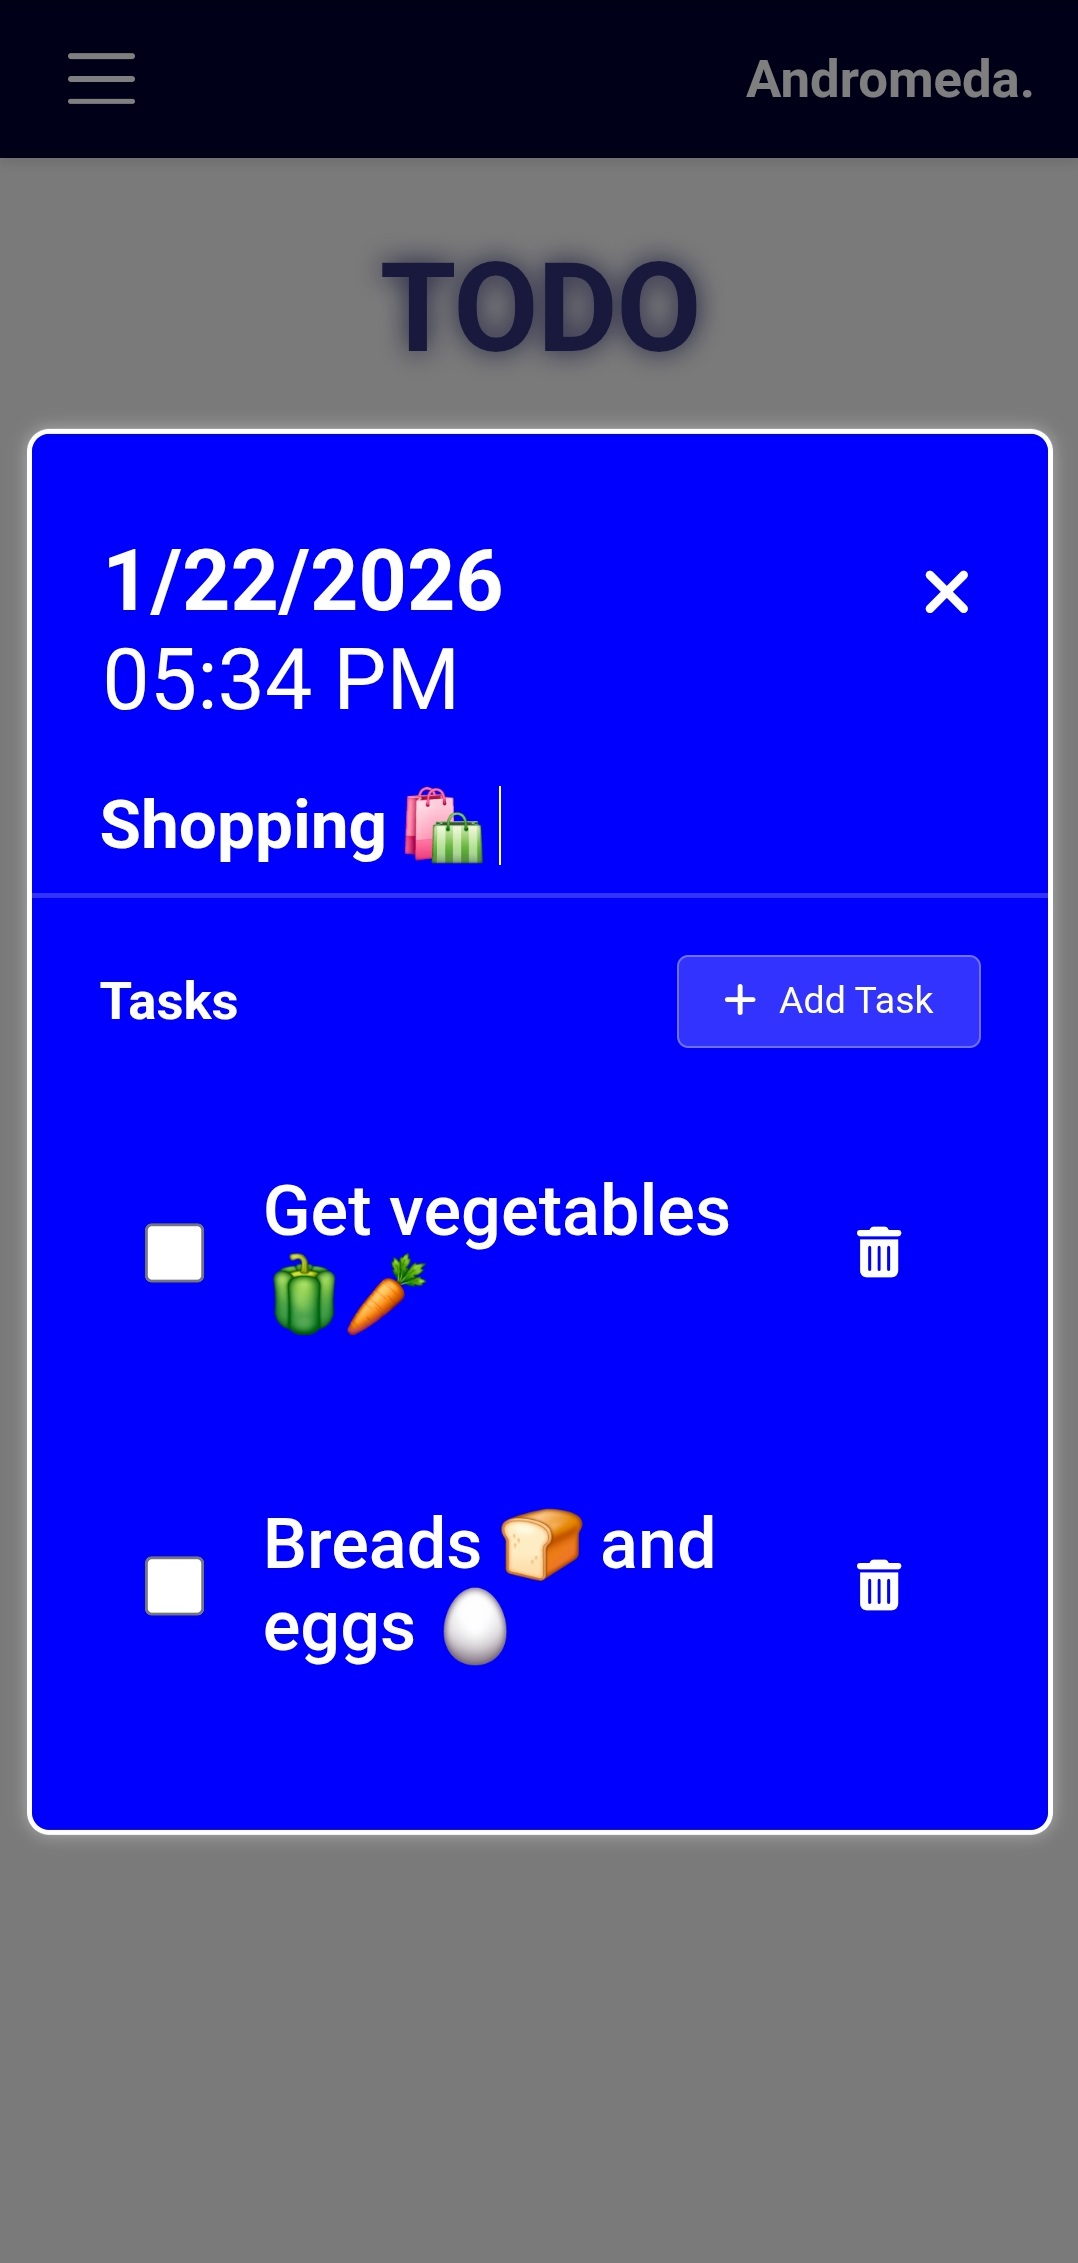
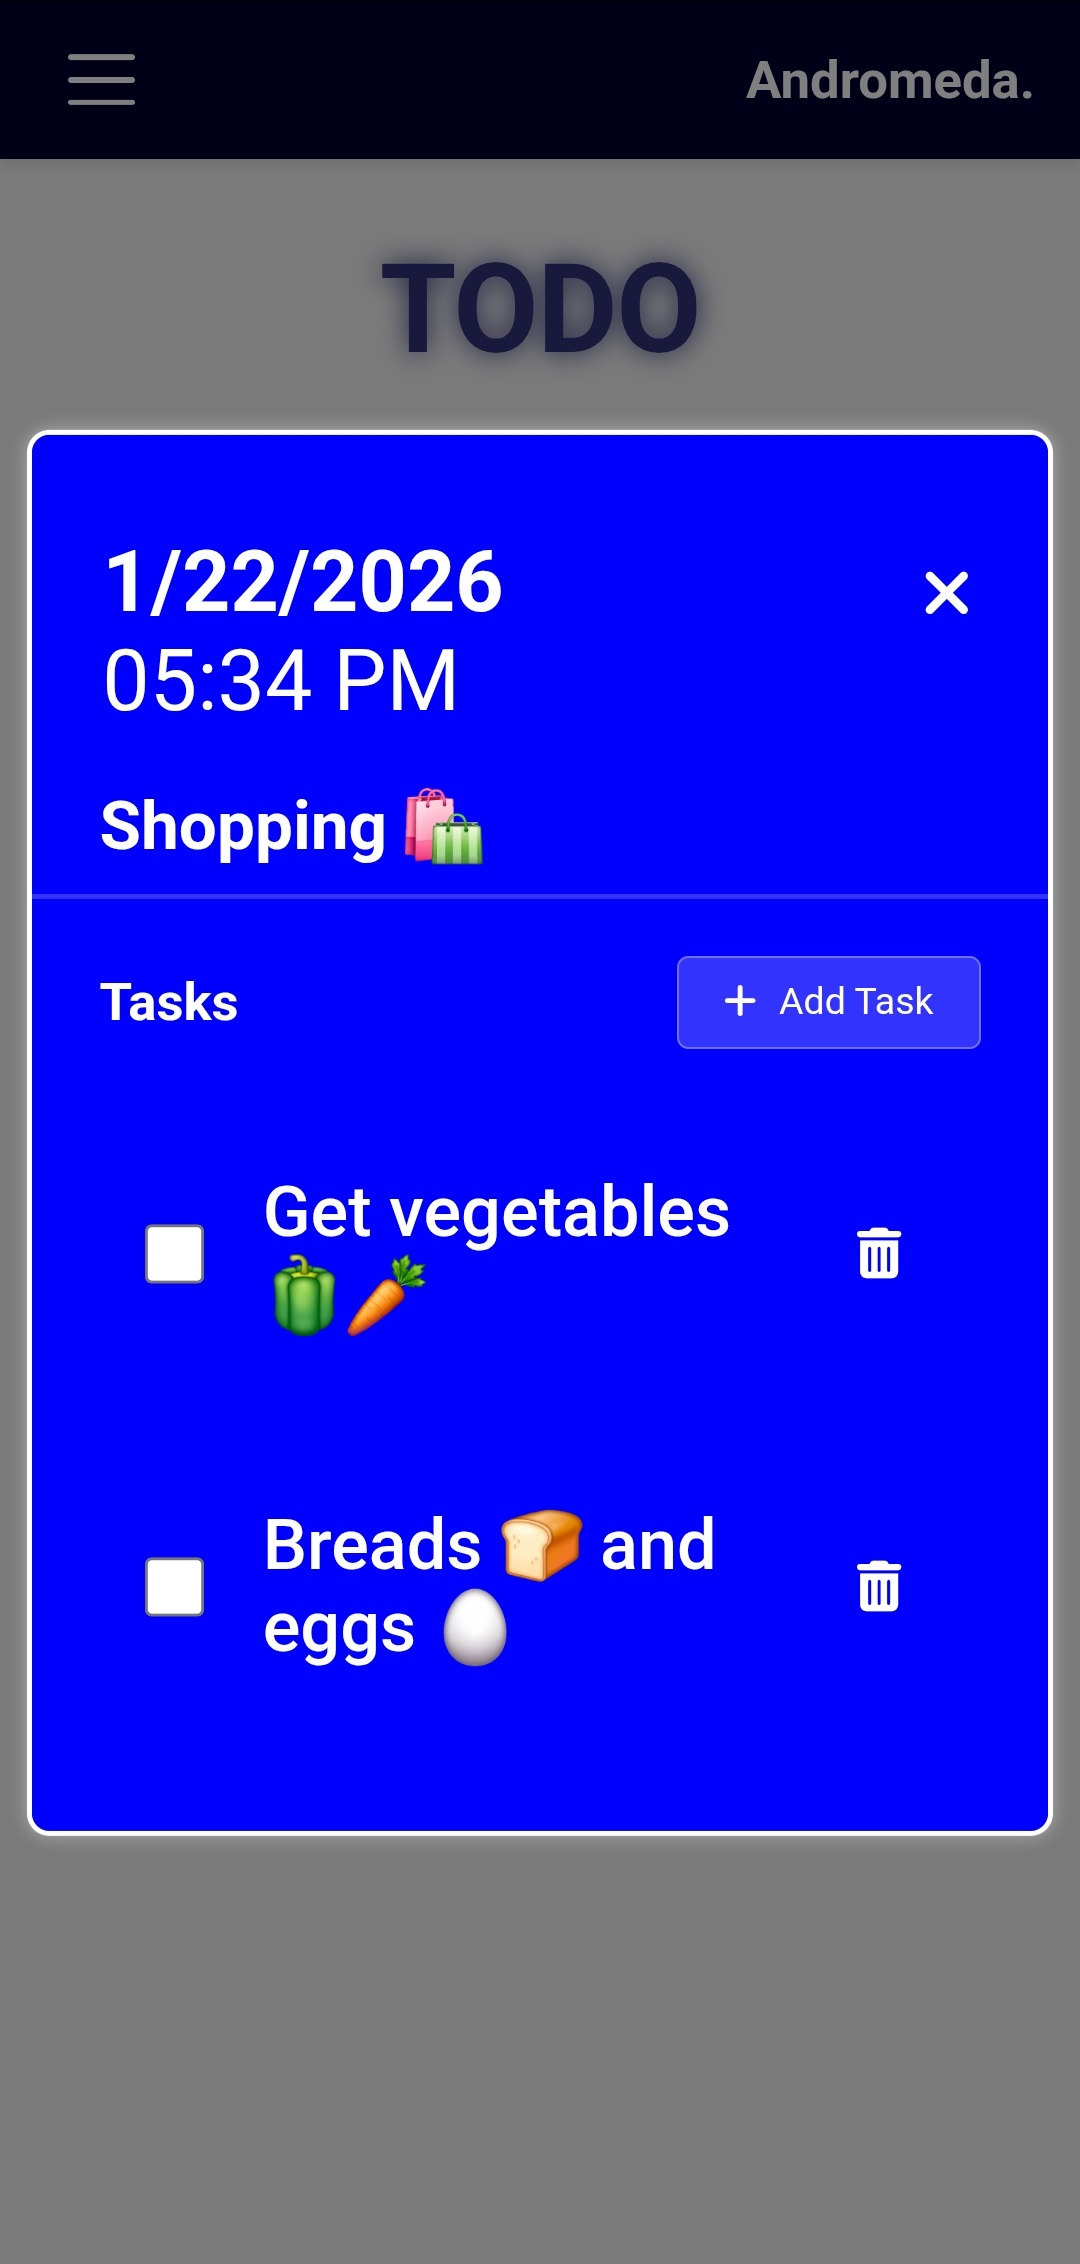
Added new features

diff --git a/src/Andromeda.jsx b/src/Andromeda.jsx
@@ -46,7 +46,7 @@ function Andromeda() {
             <h2>NOTES</h2>
             <p>
               To help you stay centered as you capture your thoughts, Andromeda
-              offers a beautifully simple space to organize your notes. <br />{" "}
+              offers a beautifully simple space to organize your notes. <br />
               <br />
               You can easily prioritize your ideas by pinning or unpinning them,
               ensuring your most important tasks always remain on track. <br />
